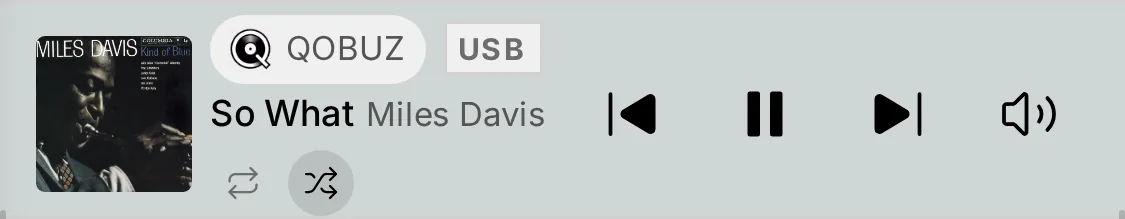
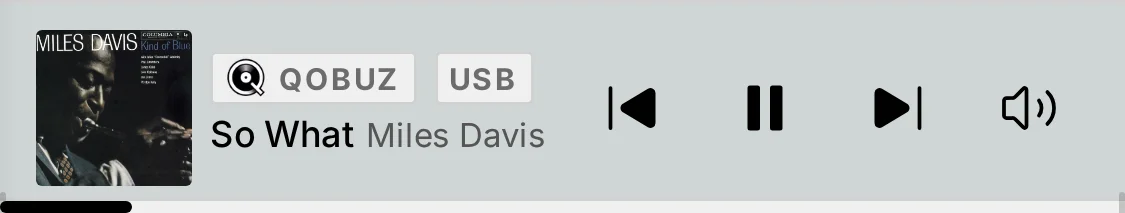
docs: record the playback bar losing repeat and shuffle
CHANGELOG and RELEASE_NOTES for the move to the fullscreen player, and for the
bar keeping its height.

The Listening chapter now lists the three ways into the fullscreen player and
drops "tap the bar", which no code path implements — a tap on the cover art
opens the album's details instead. Its picture was retaken on the same source
and the same track it has always shown.

diff --git a/docs/manual/04-listening.html b/docs/manual/04-listening.html
@@ -56,9 +56,19 @@ Qobuz, Tidal, HIGHRESAUDIO, internet radio or a UPnP server all flow through one
 of controls.</p>
 <h2 id="the-now-playing-bar">The Now Playing bar</h2>
 <p>A sticky <strong>Now Playing</strong> bar sits above the footer and shows <strong>all active audio
-sources</strong> at once, with quick transport — play/pause, next, and volume. Tap it (or
-swipe up on mobile / the expand button on desktop) to open the <strong>fullscreen player</strong>.</p>
-<img loading="lazy" src="images/ios-nowplaying-bar.webp" alt="The Now Playing bar: cover art, the stream-origin and output badges, the track, and the transport with repeat and shuffle" width="360">
+sources</strong> at once, with quick transport — previous, play/pause, next, and volume.
+Repeat and shuffle are in the fullscreen player.</p>
+<p><strong>Opening the fullscreen player.</strong> There are three ways in, and tapping the bar
+itself is not one of them:</p>
+<ul>
+<li><strong>On a computer</strong> — the small tab at the top-right corner of the bar.</li>
+<li><strong>On a phone or tablet</strong> — swipe <strong>up</strong> on the bar, starting from the track title
+rather than from the buttons, which keep the touch for themselves.</li>
+<li><strong>From the Library</strong> — it opens by itself as soon as you start something playing.</li>
+</ul>
+<p>Tapping the <strong>cover art</strong> does something else: it opens the album's details —
+Album, Artist, Year, Genre, Format, Position, Source — and its tracklist.</p>
+<img loading="lazy" src="images/ios-nowplaying-bar.webp" alt="The Now Playing bar: cover art, the stream-origin and output badges, the track, and the transport — previous, play/pause, next and volume" width="360">
 <h2 id="the-fullscreen-player">The fullscreen player</h2>
 <ul>
 <li><strong>Cover art</strong> with a dynamic background derived from it, a <strong>seekable progress

diff --git a/CHANGELOG.md b/CHANGELOG.md
@@ -12,6 +12,8 @@ and this landing) are documented here. Format based on
 ### Changed
 - **[ui] The Compact Mode switch is gone; the interface keeps the density it has always shown.** The switch was on from the very first launch and the only thing turning it off did was make everything larger — a second layout nobody asked for, carried through 31 rules and every screen of the interface. Those rules are now simply what the interface is: the spacing steps read 4/6/12/18/24 px and the type steps 12/13/14 px where three names were being substituted underneath. Nothing moves on screen, except in two places. The **settings drawer** gives each switch a full-width row — light/dark mode, notifications, animations, portrait lock and Face ID / Touch ID were paired two to a line, each label squeezed into half the width beside its switch. And a **service tile that starts, or a profile that becomes active**, no longer shifts its contents by a pixel as its border thickens: the second border pixel is taken out of the padding, as the processor tile beside it already did. The **sign-in page** is deliberately left untouched: it is the one screen the setting never reached, so it had been drawing the larger layout alone, and following the interface would have shrunk it by itself (its card 558 → 460 px on a computer, 536 → 445 px on a phone). It now states the steps it used to inherit, and is pixel-identical — checked over every element it holds, at both sizes. Verified the same way across ten tabs on a computer and a phone: no other difference.
 - **[manual] The Administration chapter stops offering a switch that no longer exists.** *Compact Mode* was listed among the settings and the drawer's picture showed it; the picture has been retaken and the list now describes what the drawer holds.
+- **[ui] Repeat and shuffle leave the playback bar for the fullscreen player.** They sat on a second line under the track title, in a bar whose job is to show what is playing and offer the transport — the same two controls are in the fullscreen player, where the rest of the playback settings already live. The bar keeps the height it has always had: the space they leave is not taken back, so nothing above the footer moves. As a side effect of pinning that height, the interface now reserves the right amount of room for the bar — the figure it went by said 61 px for a bar that measured 83.
+- **[manual] The *Listening* chapter says how to open the fullscreen player, and stops saying something that never worked.** It read *"Tap it … to open the fullscreen player"*; tapping the bar does not open it, and tapping the cover art opens the album's details and tracklist instead. The three ways in are now listed — the tab at the top-right corner on a computer, a swipe up from the track title on a phone, and by itself when you start something playing from the Library — which matters more now that repeat and shuffle are only in there. The bar's picture has been retaken on the same track it always showed.
 
 ## [0.9.57] - 2026-09-19
 

diff --git a/docs/manual/04-listening.md b/docs/manual/04-listening.md
@@ -7,10 +7,21 @@ of controls.
 ## The Now Playing bar
 
 A sticky **Now Playing** bar sits above the footer and shows **all active audio
-sources** at once, with quick transport — play/pause, next, and volume. Tap it (or
-swipe up on mobile / the expand button on desktop) to open the **fullscreen player**.
+sources** at once, with quick transport — previous, play/pause, next, and volume.
+Repeat and shuffle are in the fullscreen player.
 
-<img src="images/ios-nowplaying-bar.webp" alt="The Now Playing bar: cover art, the stream-origin and output badges, the track, and the transport with repeat and shuffle" width="360">
+**Opening the fullscreen player.** There are three ways in, and tapping the bar
+itself is not one of them:
+
+- **On a computer** — the small tab at the top-right corner of the bar.
+- **On a phone or tablet** — swipe **up** on the bar, starting from the track title
+  rather than from the buttons, which keep the touch for themselves.
+- **From the Library** — it opens by itself as soon as you start something playing.
+
+Tapping the **cover art** does something else: it opens the album's details —
+Album, Artist, Year, Genre, Format, Position, Source — and its tracklist.
+
+<img src="images/ios-nowplaying-bar.webp" alt="The Now Playing bar: cover art, the stream-origin and output badges, the track, and the transport — previous, play/pause, next and volume" width="360">
 
 ## The fullscreen player
 

diff --git a/RELEASE_NOTES.md b/RELEASE_NOTES.md
@@ -27,6 +27,22 @@ it had been drawing the larger one on its own, and simply following the interfac
 shrunk it while nothing around it changed. It now holds those steps itself and looks exactly
 as it did.
 
+### A calmer playback bar
+
+**Repeat** and **shuffle** have left the bar above the footer. They sat on a second line under
+the track title, in a strip whose job is to tell you what is playing and give you the transport
+— play/pause, previous, next, volume. Both controls are in the **fullscreen player**, alongside
+the rest of what you set while listening.
+
+The bar keeps exactly the height it had, so nothing above it shifts; the space is simply given
+back to what remains.
+
+And because the fullscreen player now holds two controls that used to be one tap away, the
+manual finally says how to open it: the small tab at the top-right corner of the bar on a
+computer, a swipe up from the track title on a phone, or nothing at all — it opens by itself
+when you start something playing from the Library. It used to say "tap the bar", which never
+worked; tapping the cover art opens the album's details and its tracklist.
+
 ---
 
 ## 0.9.57 — 2026-09-19
